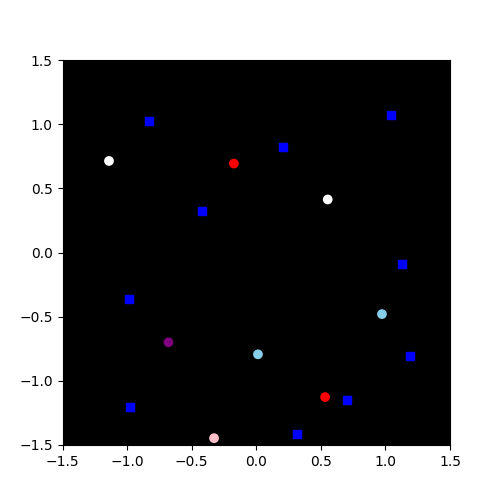
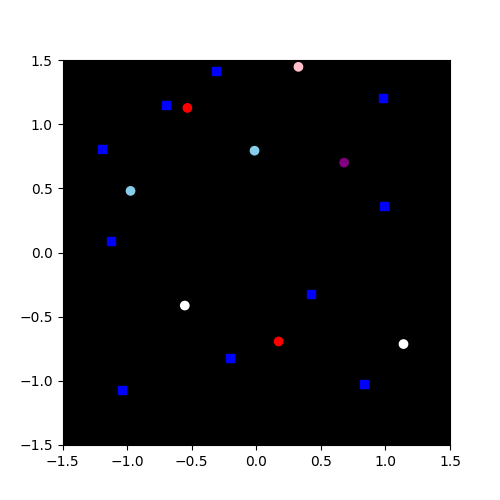
Fixed new image

diff --git a/Week08-09/txt_to_image.py b/Week08-09/txt_to_image.py
@@ -29,13 +29,13 @@ j = 1
 for Key in ReferenceMap:
     if j <= 10 :
         #Position = np.array([ReferenceMap[Key]["x"], ReferenceMap[Key]["y"]])
-        ReferenceArUcos_x.append(ReferenceMap[Key]["x"])
-        ReferenceArUcos_y.append(ReferenceMap[Key]["y"])
+        ReferenceArUcos_x.append(-ReferenceMap[Key]["x"])
+        ReferenceArUcos_y.append(-ReferenceMap[Key]["y"])
         j += 1
 
     elif j > 10 : 
-        ReferenceObjects_x.append(ReferenceMap[Key]["x"])
-        ReferenceObjects_y.append(ReferenceMap[Key]["y"])
+        ReferenceObjects_x.append(-ReferenceMap[Key]["x"])
+        ReferenceObjects_y.append(-ReferenceMap[Key]["y"])
         Objects_names.append(Key)
         j += 1
 
